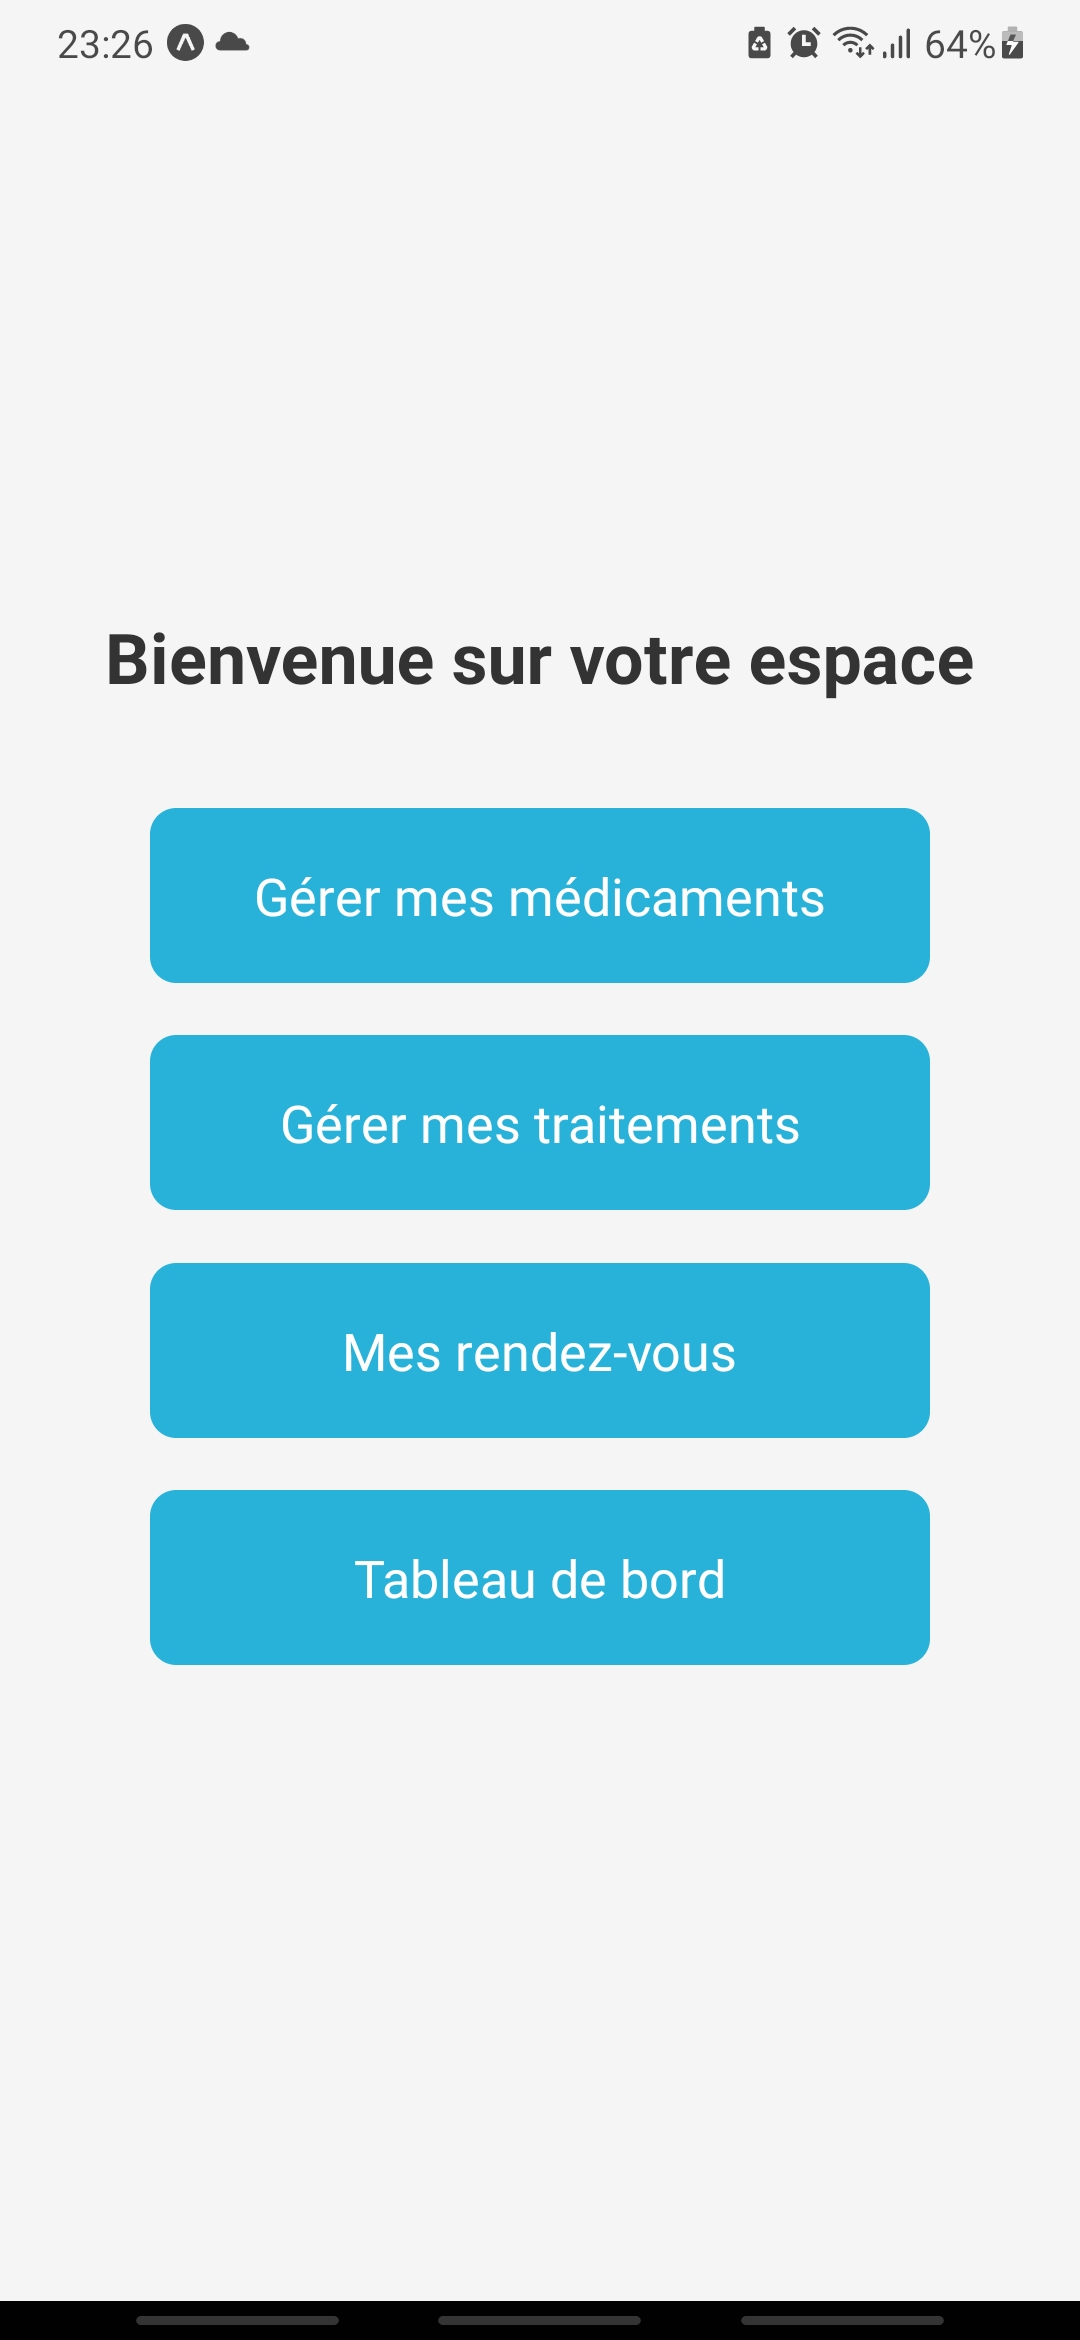
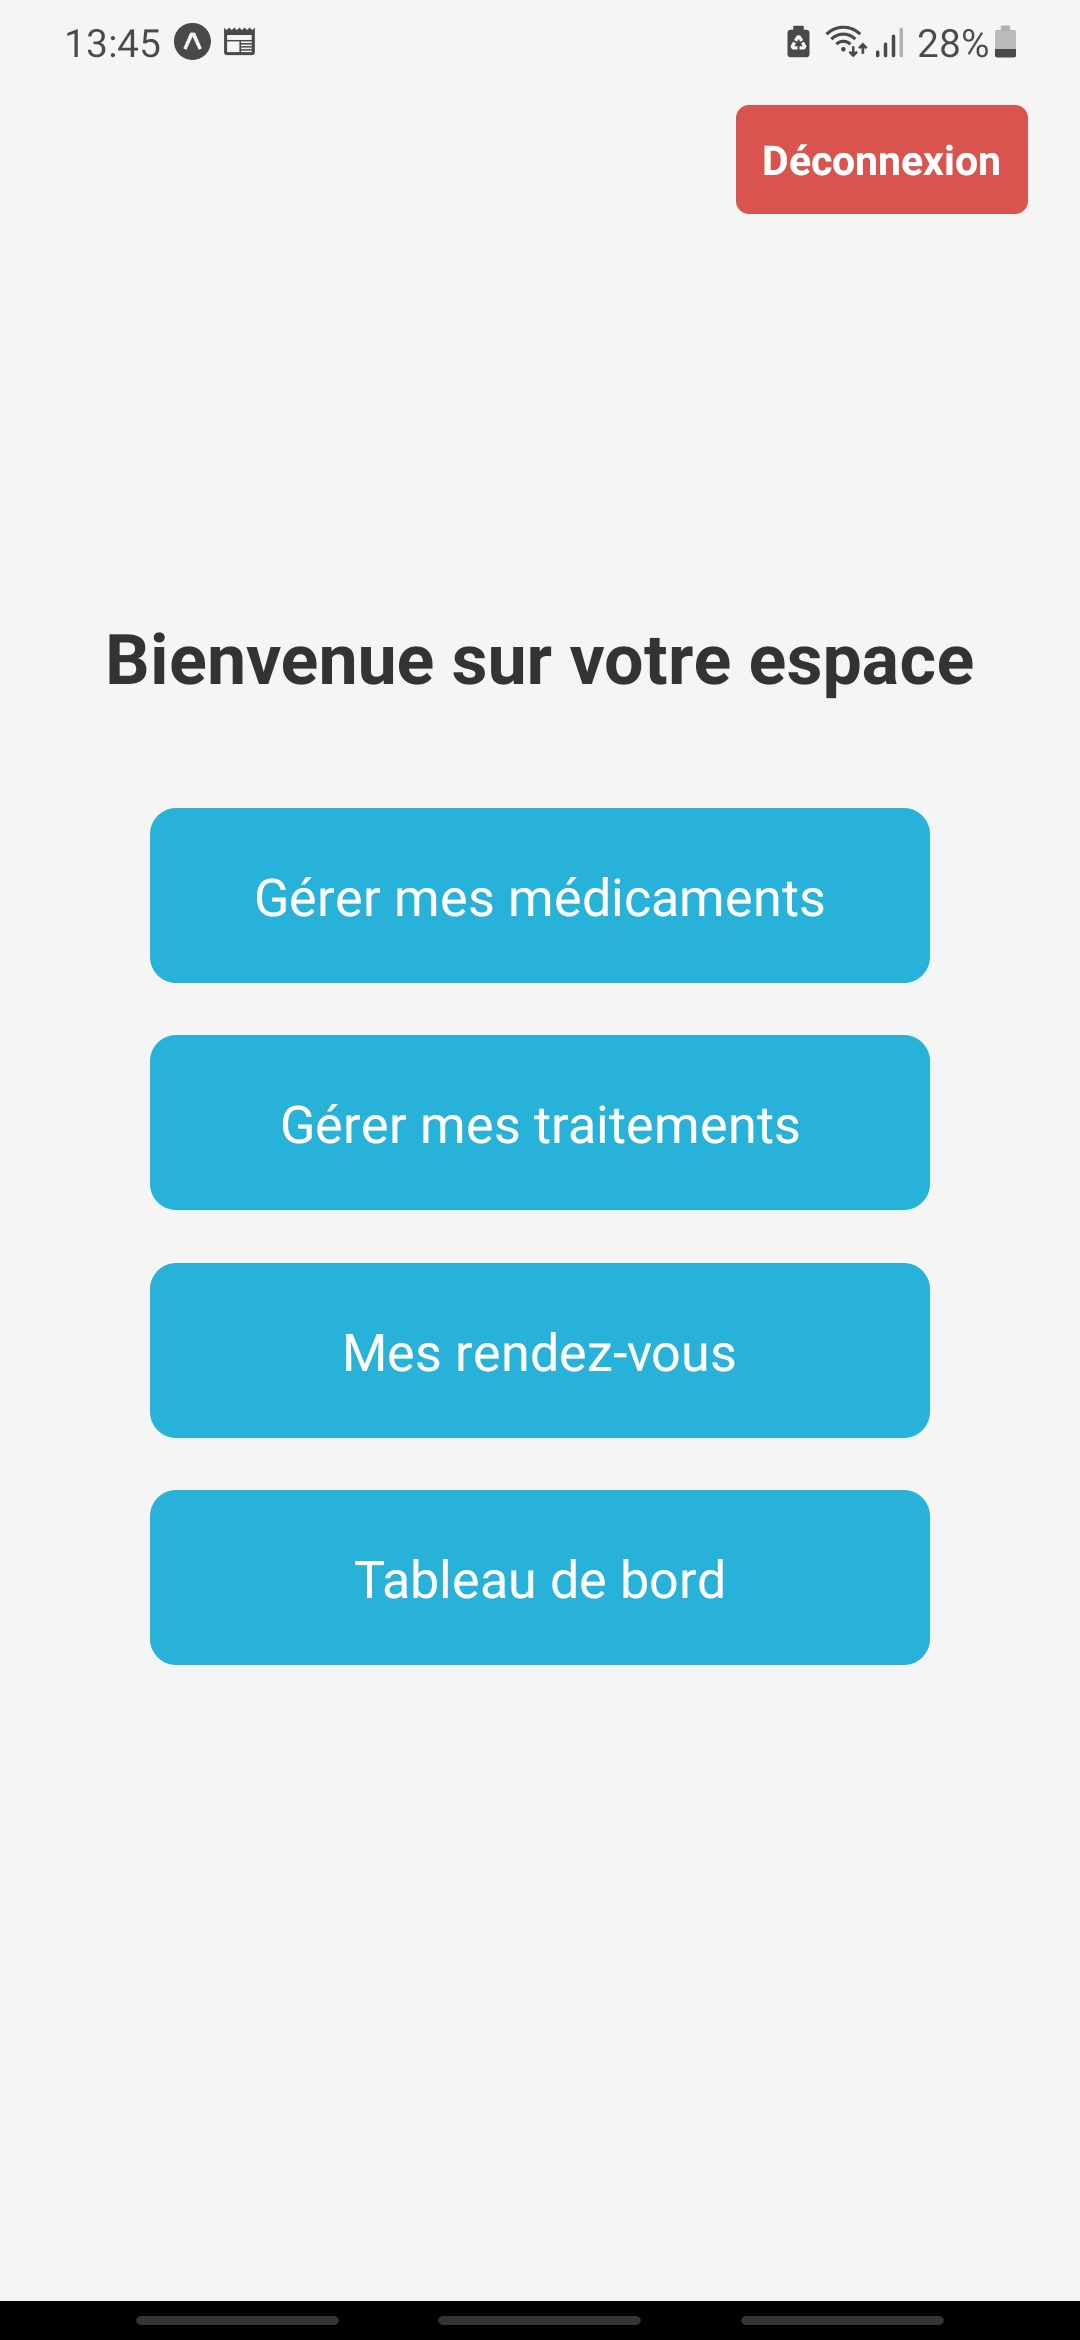
front helpmed

Changed region(s): [[0.6722, 0.0, 0.9778, 0.0936], [0.0611, 0.0, 0.2444, 0.0312]]

diff --git a/frontdebut/src/screen/ApresLogin.jsx b/frontdebut/src/screen/ApresLogin.jsx
@@ -1,6 +1,7 @@
 import React from 'react';
-import { View, Text, TouchableOpacity, StyleSheet,Image } from 'react-native';
+import { View, Text, TouchableOpacity, StyleSheet, Image } from 'react-native';
 import { useNavigation } from '@react-navigation/native';
+import AsyncStorage from '@react-native-async-storage/async-storage';
 
 const PatientHomeScreen = () => {
   const navigation = useNavigation();
@@ -9,11 +10,31 @@ const PatientHomeScreen = () => {
     navigation.navigate(screen);
   };
 
+  const handleLogout = async () => {
+    try {
+      // Suppression des informations d'authentification (par exemple, un token)
+      await AsyncStorage.removeItem('token'); // Remplacez 'userToken' par la clé que vous utilisez
+
+      // Redirigez l'utilisateur vers l'écran de connexion
+      navigation.navigate('LOGIN'); // Remplacez par le nom de votre écran de connexion
+    } catch (error) {
+      console.error('Erreur lors de la déconnexion:', error);
+    }
+  };
+
+  
+
   return (
     <View style={styles.container}>
-
+      {/* Titre de bienvenue */}
       <Text style={styles.title}>Bienvenue sur votre espace</Text>
 
+      {/* Bouton de déconnexion */}
+      <TouchableOpacity style={styles.logoutButton} onPress={handleLogout}>
+        <Text style={styles.logoutText}>Déconnexion</Text>
+      </TouchableOpacity>
+
+      {/* Blocs de navigation */}
       <TouchableOpacity
         style={styles.block}
         onPress={() => handleNavigation('MEDICAMENT')}
@@ -73,6 +94,18 @@ const styles = StyleSheet.create({
   blockText: {
     fontSize: 18,
     color: '#fff',
+  },
+  logoutButton: {
+    position: 'absolute',
+    top: 40,
+    right: 20,
+    backgroundColor: '#d9534f', // Couleur de fond rouge
+    padding: 10,
+    borderRadius: 5,
+  },
+  logoutText: {
+    color: '#fff',
+    fontWeight: 'bold',
   },
   logo: {
     height: 150,
